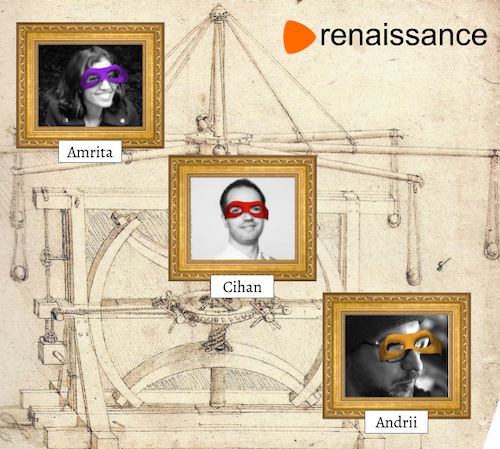
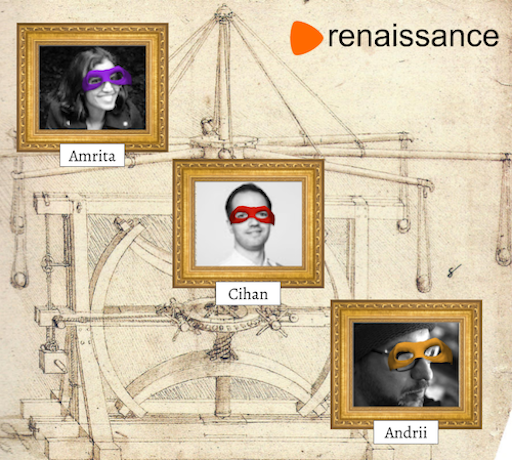
Img size

diff --git a/README.md b/README.md
@@ -3,7 +3,7 @@
 We are a team of 3 Software Engineers working together for a big European fashion platform.  
 We have to make architectural decisions in our daily work and want to be better on this field.
 
-![team](./assets/r_team.png?v=3)
+![team](./assets/r_team.png?v=4)
 
 # Narrative
 As the new Sysop Squads Software Architects, we have been presented with a system, that is currently live and serving real users. This system has certain properties and certian problems. Our job is to help solve those problems in the best way possible.
